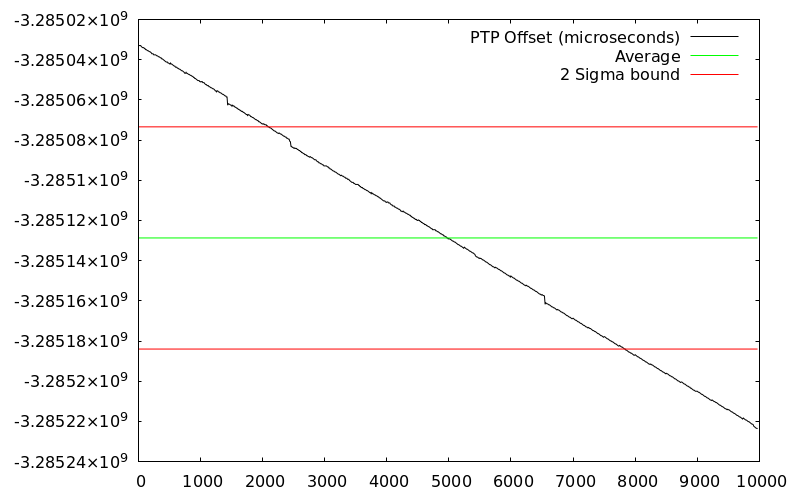
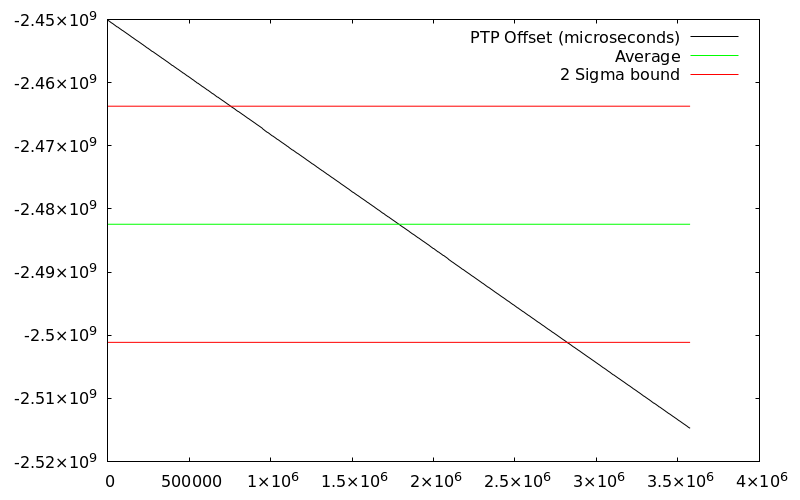
now its good

diff --git a/src/host.rs b/src/host.rs
@@ -245,7 +245,6 @@ impl RIDLayer {
 
         self.write(&mut buffer);
 
-        let prev_host_read = self.ptp_stamp[2];
         let prev_client_read = self.ptp_stamp[0];
 
         match self.read(&mut buffer) {
@@ -292,7 +291,7 @@ impl RIDLayer {
     pub fn print(&self) -> (f32, f32) {
 
         let host_time = self.system_time.micros() as f32 + (self.host_hours * USEC_PER_HOUR);
-        let client_time = self.ptp_stamp[1] as f32;
+        let client_time = self.ptp_stamp[1] as f32 + (self.client_hours * USEC_PER_HOUR);
 
         let host_err = host_time - self.ptp_to_host(client_time);
         let client_err = client_time - self.ptp_to_client(host_time);

diff --git a/tests/ptp_performance.rs b/tests/ptp_performance.rs
@@ -54,7 +54,7 @@ use rid::{
 
 #[allow(dead_code)]
 const VERBOSITY: usize = 1;
-pub static TEST_DURATION: f32 = 10.0;
+pub static TEST_DURATION: f32 = 3600.0;
 
 pub mod ptp_performance {
 
